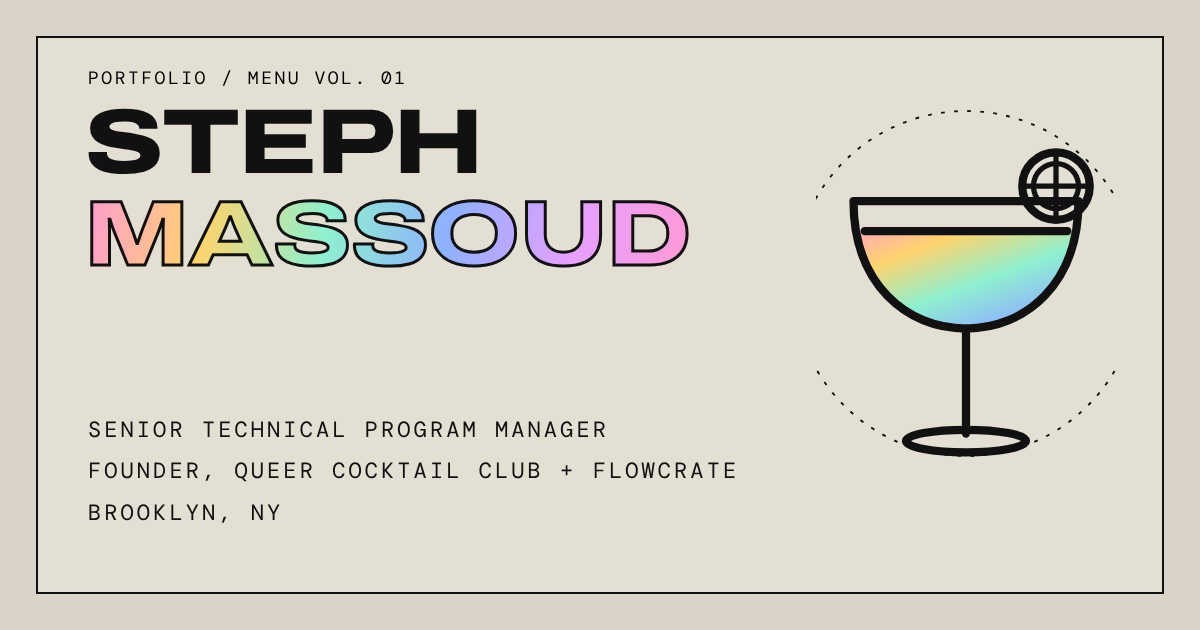
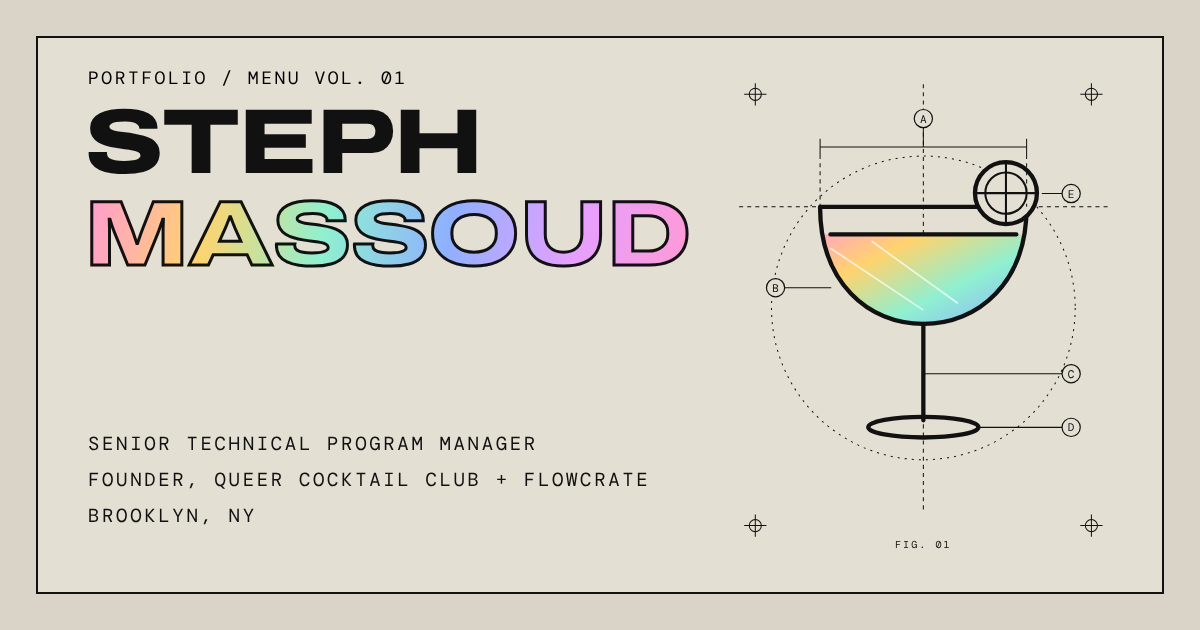
Share image matches header, Fig 03 garnish, quieter Vol. 01, intro dash, Flowcrate carousel, 3-row IG embed
Claude-Session: https://claude.ai/code/session_013i59DxhDfuUY9cuHSDTw9x

diff --git a/index.html b/index.html
@@ -35,7 +35,7 @@
     <link rel="preconnect" href="https://fonts.googleapis.com">
     <link rel="preconnect" href="https://fonts.gstatic.com" crossorigin>
     <link href="https://fonts.googleapis.com/css2?family=Archivo:wdth,wght@62..125,500..900&family=DM+Mono:wght@400;500&family=Newsreader:ital,opsz,wght@0,6..72,400..600;1,6..72,400&display=swap" rel="stylesheet">
-    <link rel="stylesheet" href="style.css?v=20261015p" type="text/css">
+    <link rel="stylesheet" href="style.css?v=20261015q" type="text/css">
     <script type="application/ld+json">
     {
       "@context": "https://schema.org",
@@ -108,7 +108,7 @@
                 <rect x="23" y="50" width="22" height="22" rx="3" transform="rotate(-8 34 61)"/>
                 <path d="M28 57 L32 54" stroke-width="1.4"/>
                 <rect x="43" y="58" width="16" height="16" rx="3" transform="rotate(12 51 66)"/>
-                <path d="M56 24 C66 12 78 22 69 30 C65 33 61 29 64 26"/>
+                <path d="M57 30 C56 20 61 13 68 14 C75 15 76 23 70 24 C67 24.5 65.5 22.5 67 21"/>
                 <path d="M12.5 12 V20 M8.5 16 H16.5" stroke-width="1.6"/>
             </g>
         </symbol>
@@ -284,7 +284,7 @@
         <!-- ============ INTRO + SIGNATURE ============ -->
         <section class="band paper lead">
             <div class="wrap">
-                <p class="intro">By day I&rsquo;m a technical program manager. The rest of the time I organize events and build things. Pull up a stool, here&rsquo;s what&rsquo;s on the menu.</p>
+                <p class="intro">By day I&rsquo;m a technical program manager. The rest of the time I organize events and build things. Pull up a stool &mdash; here&rsquo;s what&rsquo;s on the menu.</p>
 
                 <div class="rail" aria-hidden="true">
                     <svg viewBox="0 0 80 100"><use href="#g-coupe"/></svg>
@@ -340,12 +340,29 @@
                     </div>
                 </article>
 
-                <a class="frame shot" href="https://www.flowcrate.co" target="_blank" rel="noopener" aria-label="Visit Flowcrate (opens in a new tab)">
+                <div class="frame carousel" role="region" aria-roledescription="carousel" aria-label="Flowcrate, simplified illustrations of the app">
                     <i class="x tl"></i><i class="x tr"></i><i class="x bl"></i><i class="x br"></i>
-                    <img src="assets/flowcrate.jpg" width="1200" height="630" loading="lazy"
-                         alt="Flowcrate: Discover music. Save tracks. Organize crates.">
-                </a>
-                <p class="mono cap-line">Fig. 04 &mdash; flowcrate.co</p>
+                    <div class="slides" tabindex="0">
+<figure class="slide" role="group" aria-roledescription="slide" aria-label="1 of 3"><svg viewBox="0 0 1200 630" role="img" aria-label="Discover: follow connections outward from a DJ or a set (simplified illustration)"><rect width="1200" height="630" fill="#111"/>
+<text x="48" y="64" class="s-mono s-lbl">01 / DISCOVER</text>
+<text x="1152" y="64" text-anchor="end" class="s-mono s-dim">START FROM A DJ OR A SET</text>
+<path d="M48 84 H1152" class="s-hair"/><path d="M600 350 L250 230" class="s-link"/><path d="M600 350 L300 470" class="s-link"/><path d="M600 350 L930 210" class="s-link"/><path d="M600 350 L960 470" class="s-link"/><path d="M600 350 L600 545" class="s-link"/><path d="M600 350 L600 175" class="s-link"/><path d="M600 350 L1090 340" class="s-link"/><path d="M600 350 L110 350" class="s-link"/><rect x="188" y="204" width="124" height="52" rx="4" class="s-card"/><rect x="204" y="221" width="56" height="6" rx="3" class="s-bar"/><rect x="204" y="234" width="44" height="5" rx="2.5" class="s-bar2"/><rect x="238" y="444" width="124" height="52" rx="4" class="s-card"/><rect x="254" y="461" width="70" height="6" rx="3" class="s-bar"/><rect x="254" y="474" width="36" height="5" rx="2.5" class="s-bar2"/><rect x="868" y="184" width="124" height="52" rx="4" class="s-card"/><rect x="884" y="201" width="56" height="6" rx="3" class="s-bar"/><rect x="884" y="214" width="44" height="5" rx="2.5" class="s-bar2"/><rect x="898" y="444" width="124" height="52" rx="4" class="s-card"/><rect x="914" y="461" width="70" height="6" rx="3" class="s-bar"/><rect x="914" y="474" width="36" height="5" rx="2.5" class="s-bar2"/><rect x="538" y="519" width="124" height="52" rx="4" class="s-card"/><rect x="554" y="536" width="56" height="6" rx="3" class="s-bar"/><rect x="554" y="549" width="44" height="5" rx="2.5" class="s-bar2"/><rect x="538" y="149" width="124" height="52" rx="4" class="s-card"/><rect x="554" y="166" width="70" height="6" rx="3" class="s-bar"/><rect x="554" y="179" width="36" height="5" rx="2.5" class="s-bar2"/><rect x="1028" y="314" width="124" height="52" rx="4" class="s-card"/><rect x="1044" y="331" width="56" height="6" rx="3" class="s-bar"/><rect x="1044" y="344" width="44" height="5" rx="2.5" class="s-bar2"/><rect x="48" y="324" width="124" height="52" rx="4" class="s-card"/><rect x="64" y="341" width="70" height="6" rx="3" class="s-bar"/><rect x="64" y="354" width="36" height="5" rx="2.5" class="s-bar2"/><circle cx="600" cy="350" r="74" class="s-disc"/><circle cx="600" cy="350" r="56" class="s-ring"/><text x="600" y="350" text-anchor="middle" dominant-baseline="central" class="s-mono s-big">DJ</text><text x="48" y="598" class="s-mono s-dim">FOLLOW THE CONNECTIONS OUTWARD</text></svg></figure>
+<figure class="slide" role="group" aria-roledescription="slide" aria-label="2 of 3"><svg viewBox="0 0 1200 630" role="img" aria-label="Save: build your crates from what you find (simplified illustration)"><rect width="1200" height="630" fill="#111"/>
+<text x="48" y="64" class="s-mono s-lbl">02 / SAVE</text>
+<text x="1152" y="64" text-anchor="end" class="s-mono s-dim">DISCOVER, SAVE, ORGANIZE</text>
+<path d="M48 84 H1152" class="s-hair"/><rect x="48" y="120" width="700" height="56" rx="4" class="s-card"/><text x="76" y="148" dominant-baseline="central" class="s-mono s-dim">01</text><rect x="130" y="137" width="190" height="8" rx="4" class="s-bar"/><rect x="130" y="154" width="150" height="6" rx="3" class="s-bar2"/><rect x="600" y="145" width="46" height="6" rx="3" class="s-bar2"/><circle cx="708" cy="148" r="15" class="s-ring2"/><path d="M708 140 v16 M700 148 h16" class="s-plus"/><rect x="48" y="190" width="700" height="56" rx="4" class="s-card"/><text x="76" y="218" dominant-baseline="central" class="s-mono s-dim">02</text><rect x="130" y="207" width="240" height="8" rx="4" class="s-bar"/><rect x="130" y="224" width="120" height="6" rx="3" class="s-bar2"/><rect x="600" y="215" width="46" height="6" rx="3" class="s-bar2"/><circle cx="708" cy="218" r="15" class="s-fill"/><path d="M700 218 l6 6 l11 -12" class="s-tick"/><rect x="48" y="260" width="700" height="56" rx="4" class="s-card"/><text x="76" y="288" dominant-baseline="central" class="s-mono s-dim">03</text><rect x="130" y="277" width="190" height="8" rx="4" class="s-bar"/><rect x="130" y="294" width="120" height="6" rx="3" class="s-bar2"/><rect x="600" y="285" width="46" height="6" rx="3" class="s-bar2"/><circle cx="708" cy="288" r="15" class="s-ring2"/><path d="M708 280 v16 M700 288 h16" class="s-plus"/><rect x="48" y="330" width="700" height="56" rx="4" class="s-card"/><text x="76" y="358" dominant-baseline="central" class="s-mono s-dim">04</text><rect x="130" y="347" width="240" height="8" rx="4" class="s-bar"/><rect x="130" y="364" width="150" height="6" rx="3" class="s-bar2"/><rect x="600" y="355" width="46" height="6" rx="3" class="s-bar2"/><circle cx="708" cy="358" r="15" class="s-ring2"/><path d="M708 350 v16 M700 358 h16" class="s-plus"/><rect x="48" y="400" width="700" height="56" rx="4" class="s-card"/><text x="76" y="428" dominant-baseline="central" class="s-mono s-dim">05</text><rect x="130" y="417" width="190" height="8" rx="4" class="s-bar"/><rect x="130" y="434" width="120" height="6" rx="3" class="s-bar2"/><rect x="600" y="425" width="46" height="6" rx="3" class="s-bar2"/><circle cx="708" cy="428" r="15" class="s-fill"/><path d="M700 428 l6 6 l11 -12" class="s-tick"/><rect x="48" y="470" width="700" height="56" rx="4" class="s-card"/><text x="76" y="498" dominant-baseline="central" class="s-mono s-dim">06</text><rect x="130" y="487" width="240" height="8" rx="4" class="s-bar"/><rect x="130" y="504" width="120" height="6" rx="3" class="s-bar2"/><rect x="600" y="495" width="46" height="6" rx="3" class="s-bar2"/><circle cx="708" cy="498" r="15" class="s-ring2"/><path d="M708 490 v16 M700 498 h16" class="s-plus"/><rect x="800" y="120" width="352" height="416" rx="4" class="s-card"/><text x="824" y="156" class="s-mono s-lbl">MY CRATES</text><path d="M824 174 H1128" class="s-hair"/><rect x="824" y="196" width="56" height="56" rx="3" class="s-tile"/><path d="M834 234 h36 M834 224 h36 M834 214 h36" class="s-hair2"/><rect x="900" y="208" width="120" height="8" rx="4" class="s-bar"/><rect x="900" y="228" width="60" height="6" rx="3" class="s-bar2"/><rect x="824" y="276" width="56" height="56" rx="3" class="s-tile"/><path d="M834 314 h36 M834 304 h36 M834 294 h36" class="s-hair2"/><rect x="900" y="288" width="150" height="8" rx="4" class="s-bar"/><rect x="900" y="308" width="60" height="6" rx="3" class="s-bar2"/><rect x="824" y="356" width="56" height="56" rx="3" class="s-tile"/><path d="M834 394 h36 M834 384 h36 M834 374 h36" class="s-hair2"/><rect x="900" y="368" width="120" height="8" rx="4" class="s-bar"/><rect x="900" y="388" width="60" height="6" rx="3" class="s-bar2"/><rect x="824" y="436" width="56" height="56" rx="3" class="s-tile"/><path d="M834 474 h36 M834 464 h36 M834 454 h36" class="s-hair2"/><rect x="900" y="448" width="150" height="8" rx="4" class="s-bar"/><rect x="900" y="468" width="60" height="6" rx="3" class="s-bar2"/><text x="48" y="598" class="s-mono s-dim">SAVE WHAT YOU FIND INTO CRATES</text></svg></figure>
+<figure class="slide" role="group" aria-roledescription="slide" aria-label="3 of 3"><svg viewBox="0 0 1200 630" role="img" aria-label="Organize: tracks enriched with BPM, key, genre and label (simplified illustration)"><rect width="1200" height="630" fill="#111"/>
+<text x="48" y="64" class="s-mono s-lbl">03 / ORGANIZE</text>
+<text x="1152" y="64" text-anchor="end" class="s-mono s-dim">BPM / KEY / GENRE / LABEL</text>
+<path d="M48 84 H1152" class="s-hair"/><rect x="48" y="120" width="226" height="176" rx="4" class="s-card"/><rect x="72" y="144" width="178" height="80" rx="3" class="s-tile"/><path d="M84 170 h154 M84 186 h154 M84 202 h154" class="s-hair2"/><rect x="72" y="242" width="96" height="8" rx="4" class="s-bar"/><rect x="72" y="262" width="52" height="6" rx="3" class="s-bar2"/><rect x="298" y="120" width="226" height="176" rx="4" class="s-card"/><rect x="322" y="144" width="178" height="80" rx="3" class="s-tile"/><path d="M334 170 h154 M334 186 h154 M334 202 h154" class="s-hair2"/><rect x="322" y="242" width="120" height="8" rx="4" class="s-bar"/><rect x="322" y="262" width="52" height="6" rx="3" class="s-bar2"/><rect x="548" y="120" width="226" height="176" rx="4" class="s-card"/><rect x="572" y="144" width="178" height="80" rx="3" class="s-tile"/><path d="M584 170 h154 M584 186 h154 M584 202 h154" class="s-hair2"/><rect x="572" y="242" width="96" height="8" rx="4" class="s-bar"/><rect x="572" y="262" width="52" height="6" rx="3" class="s-bar2"/><rect x="48" y="320" width="226" height="176" rx="4" class="s-card"/><rect x="72" y="344" width="178" height="80" rx="3" class="s-tile"/><path d="M84 370 h154 M84 386 h154 M84 402 h154" class="s-hair2"/><rect x="72" y="442" width="120" height="8" rx="4" class="s-bar"/><rect x="72" y="462" width="52" height="6" rx="3" class="s-bar2"/><rect x="298" y="320" width="226" height="176" rx="4" class="s-card"/><rect x="322" y="344" width="178" height="80" rx="3" class="s-tile"/><path d="M334 370 h154 M334 386 h154 M334 402 h154" class="s-hair2"/><rect x="322" y="442" width="96" height="8" rx="4" class="s-bar"/><rect x="322" y="462" width="52" height="6" rx="3" class="s-bar2"/><rect x="548" y="320" width="226" height="176" rx="4" class="s-card"/><rect x="572" y="344" width="178" height="80" rx="3" class="s-tile"/><path d="M584 370 h154 M584 386 h154 M584 402 h154" class="s-hair2"/><rect x="572" y="442" width="120" height="8" rx="4" class="s-bar"/><rect x="572" y="462" width="52" height="6" rx="3" class="s-bar2"/><rect x="808" y="120" width="344" height="376" rx="4" class="s-card"/><rect x="832" y="144" width="296" height="150" rx="3" class="s-tile"/><circle cx="980" cy="219" r="46" class="s-ring"/><circle cx="980" cy="219" r="8" class="s-fill"/><rect x="832" y="318" width="190" height="10" rx="5" class="s-bar"/><rect x="832" y="342" width="110" height="7" rx="3.5" class="s-bar2"/><rect x="832" y="388" width="140" height="40" rx="20" class="s-chip"/><text x="902" y="408" text-anchor="middle" dominant-baseline="central" class="s-mono s-lbl">BPM</text><rect x="984" y="388" width="140" height="40" rx="20" class="s-chip"/><text x="1054" y="408" text-anchor="middle" dominant-baseline="central" class="s-mono s-lbl">KEY</text><rect x="832" y="442" width="140" height="40" rx="20" class="s-chip"/><text x="902" y="462" text-anchor="middle" dominant-baseline="central" class="s-mono s-lbl">GENRE</text><rect x="984" y="442" width="140" height="40" rx="20" class="s-chip"/><text x="1054" y="462" text-anchor="middle" dominant-baseline="central" class="s-mono s-lbl">LABEL</text><text x="48" y="598" class="s-mono s-dim">KEEP YOUR CRATES ORGANIZED</text></svg></figure>
+                    </div>
+                    <div class="car-nav">
+                        <button type="button" class="car-btn" data-dir="-1" aria-label="Previous slide">&larr;</button>
+                        <span class="car-dots"><button type="button" aria-label="Show slide 1" aria-current="true"></button><button type="button" aria-label="Show slide 2"></button><button type="button" aria-label="Show slide 3"></button></span>
+                        <button type="button" class="car-btn" data-dir="1" aria-label="Next slide">&rarr;</button>
+                    </div>
+                </div>
+                <p class="mono cap-line">Fig. 04 &mdash; Flowcrate, simplified</p>
 
                 <h3 class="sub">What I did</h3>
                 <dl class="work">
@@ -485,5 +502,15 @@
             if (el) { el.textContent = new Date().getFullYear(); }
         })();
     </script>
+<script>
+(function(){var c=document.querySelector('.carousel');if(!c)return;var s=c.querySelector('.slides'),d=c.querySelectorAll('.car-dots button'),n=d.length;
+function idx(){return Math.round(s.scrollLeft/s.clientWidth)}
+function go(i){i=Math.max(0,Math.min(n-1,i));s.scrollTo({left:i*s.clientWidth,behavior:'smooth'})}
+s.addEventListener('scroll',function(){var i=idx();d.forEach(function(b,k){if(k===i)b.setAttribute('aria-current','true');else b.removeAttribute('aria-current')})},{passive:true});
+d.forEach(function(b,k){b.addEventListener('click',function(){go(k)})});
+c.querySelectorAll('.car-btn').forEach(function(b){b.addEventListener('click',function(){go(idx()+(+b.dataset.dir))})});
+s.addEventListener('keydown',function(e){if(e.key==='ArrowRight'){go(idx()+1);e.preventDefault()}if(e.key==='ArrowLeft'){go(idx()-1);e.preventDefault()}});
+})();
+</script>
 </body>
 </html>

diff --git a/style.css b/style.css
@@ -174,7 +174,8 @@ a { color: inherit; }
 .cell-legend ul { list-style: none; margin: 8px 0 0; padding: 0; display: flex; flex-wrap: wrap; gap: 4px 14px; font-size: 0.68rem; }
 .cell-legend b { display: inline-grid; place-items: center; width: 1.7em; height: 1.7em; border: 1px solid var(--ink); border-radius: 50%; margin-right: 6px; font-weight: 500; }
 .cell-no { text-align: center; display: flex; flex-direction: column; justify-content: space-between; gap: 4px; }
-.big-no { margin: 0; font-family: var(--display); font-weight: 800; font-size: 2.3rem; line-height: 0.9; }
+.big-no { margin: 0; font-family: var(--display); font-weight: 700; font-size: 1.5rem; line-height: 0.9; color: var(--muted); }
+.cell-no .hazard { height: 6px; opacity: 0.35; }
 .cell-bar { display: flex; flex-direction: column; justify-content: center; gap: 6px; }
 .cell-bar .mono { text-align: center; font-size: 0.65rem; }
 
@@ -283,6 +284,38 @@ h3 { margin: 0; font-family: var(--display); font-weight: 700; text-transform: u
 .link { font-size: 0.78rem; text-decoration: underline; text-underline-offset: 6px; text-decoration-thickness: 1px; }
 .link:hover { color: var(--hot-ink); }
 
+/* ---------- flowcrate carousel ---------- */
+.carousel { padding: 10px 10px 0; }
+.carousel .slides { display: flex; overflow-x: auto; scroll-snap-type: x mandatory; scrollbar-width: none; -webkit-overflow-scrolling: touch; }
+.carousel .slides::-webkit-scrollbar { display: none; }
+.carousel .slides:focus-visible { outline: 2px solid var(--hot); outline-offset: 4px; }
+.carousel .slide { flex: 0 0 100%; margin: 0; scroll-snap-align: start; }
+.carousel svg { display: block; width: 100%; height: auto; }
+.car-nav { display: flex; align-items: center; justify-content: center; gap: 18px; padding: 14px 0 12px; }
+.car-btn { appearance: none; background: none; border: 1px solid var(--on-ink-soft); color: var(--on-ink); width: 34px; height: 34px; font: inherit; font-size: 0.95rem; cursor: pointer; }
+.car-btn:hover { border-color: var(--hot); color: var(--hot); }
+.car-dots { display: flex; gap: 10px; }
+.car-dots button { appearance: none; width: 9px; height: 9px; padding: 0; border-radius: 50%; border: 1px solid var(--on-ink-soft); background: transparent; cursor: pointer; }
+.car-dots button[aria-current="true"] { background: var(--hot); border-color: var(--hot); }
+.s-mono { font-family: var(--mono); letter-spacing: 0.12em; }
+.s-lbl { fill: #ece8df; font-size: 18px; }
+.s-dim { fill: #8d897f; font-size: 16px; }
+.s-big { fill: #ece8df; font-size: 30px; letter-spacing: 0.04em; font-weight: 500; }
+.s-hair { stroke: #3a3a37; stroke-width: 1; fill: none; }
+.s-hair2 { stroke: #3a3a37; stroke-width: 2; fill: none; stroke-linecap: round; }
+.s-link { stroke: #55524a; stroke-width: 1.5; stroke-dasharray: 5 6; fill: none; }
+.s-card { fill: #161616; stroke: #3a3a37; stroke-width: 1.5; }
+.s-tile { fill: #1d1d1d; stroke: #3a3a37; stroke-width: 1.5; }
+.s-bar { fill: #b9b4a8; opacity: 0.6; }
+.s-bar2 { fill: #55524a; }
+.s-disc { fill: #111; stroke: #55524a; stroke-width: 1.5; stroke-dasharray: 3 6; }
+.s-ring { fill: none; stroke: #ff9ad5; stroke-width: 2.5; }
+.s-fill { fill: #ff9ad5; }
+.s-tick { fill: none; stroke: #111; stroke-width: 3; stroke-linecap: round; stroke-linejoin: round; }
+.s-ring2 { fill: none; stroke: #55524a; stroke-width: 1.5; }
+.s-plus { stroke: #b9b4a8; stroke-width: 2; stroke-linecap: round; }
+.s-chip { fill: none; stroke: #ff9ad5; stroke-width: 1.5; }
+
 /* ---------- frames ---------- */
 .frame { position: relative; border: 1.5px solid var(--ink); background: var(--paper-lit); padding: 10px; margin: clamp(44px, 6vw, 72px) 0 12px; display: block; }
 .ink .frame { border-color: var(--on-ink); background: #000; }
@@ -294,7 +327,7 @@ h3 { margin: 0; font-family: var(--display); font-weight: 700; text-transform: u
 .ig-cap { margin-bottom: 18px; margin-top: 0; }
 .frame.ig { margin-top: 0; margin-bottom: 44px; max-width: 784px; }
 .btn-row { margin-top: 44px; }
-.frame.ig iframe { display: block; width: 100%; height: calc(min(100vw - 74px, 734px) * 0.667 + 200px); border: 0; background: #fff; }
+.frame.ig iframe { display: block; width: 100%; height: calc(min(100vw - 74px, 734px) * 1 + 200px); border: 0; background: #fff; }
 
 /* ---------- work list ---------- */
 .work { margin: 0 0 36px; display: grid; grid-template-columns: 1fr 1fr; border-top: 1px solid var(--on-ink-soft); }
@@ -358,7 +391,7 @@ h3 { margin: 0; font-family: var(--display); font-weight: 700; text-transform: u
     .mini:nth-child(odd) { border-right: 0; }
     .mini:nth-last-child(-n+2) { border-bottom: 1px solid var(--ink); }
     .mini:last-child { border-bottom: 0; }
-    .frame.ig iframe { height: calc((100vw - 74px) * 0.667 + 200px); }
+    .frame.ig iframe { height: calc((100vw - 74px) * 1 + 200px); }
     .specs div { grid-template-columns: 5.5em 1fr; }
 }
 @media (max-width: 480px) {

diff --git a/404.html b/404.html
@@ -8,7 +8,7 @@
     <link rel="icon" href="/favicon.svg" type="image/svg+xml">
     <link rel="icon" href="/favicon.ico" sizes="any">
     <link href="https://fonts.googleapis.com/css2?family=Archivo:wdth,wght@62..125,500..900&family=DM+Mono:wght@400;500&family=Newsreader:ital,opsz,wght@0,6..72,400..600;1,6..72,400&display=swap" rel="stylesheet">
-    <link rel="stylesheet" href="/style.css?v=20261015p">
+    <link rel="stylesheet" href="/style.css?v=20261015q">
 </head>
 <body>
     <main class="band ink last" style="min-height:100vh;display:grid;align-items:center">
